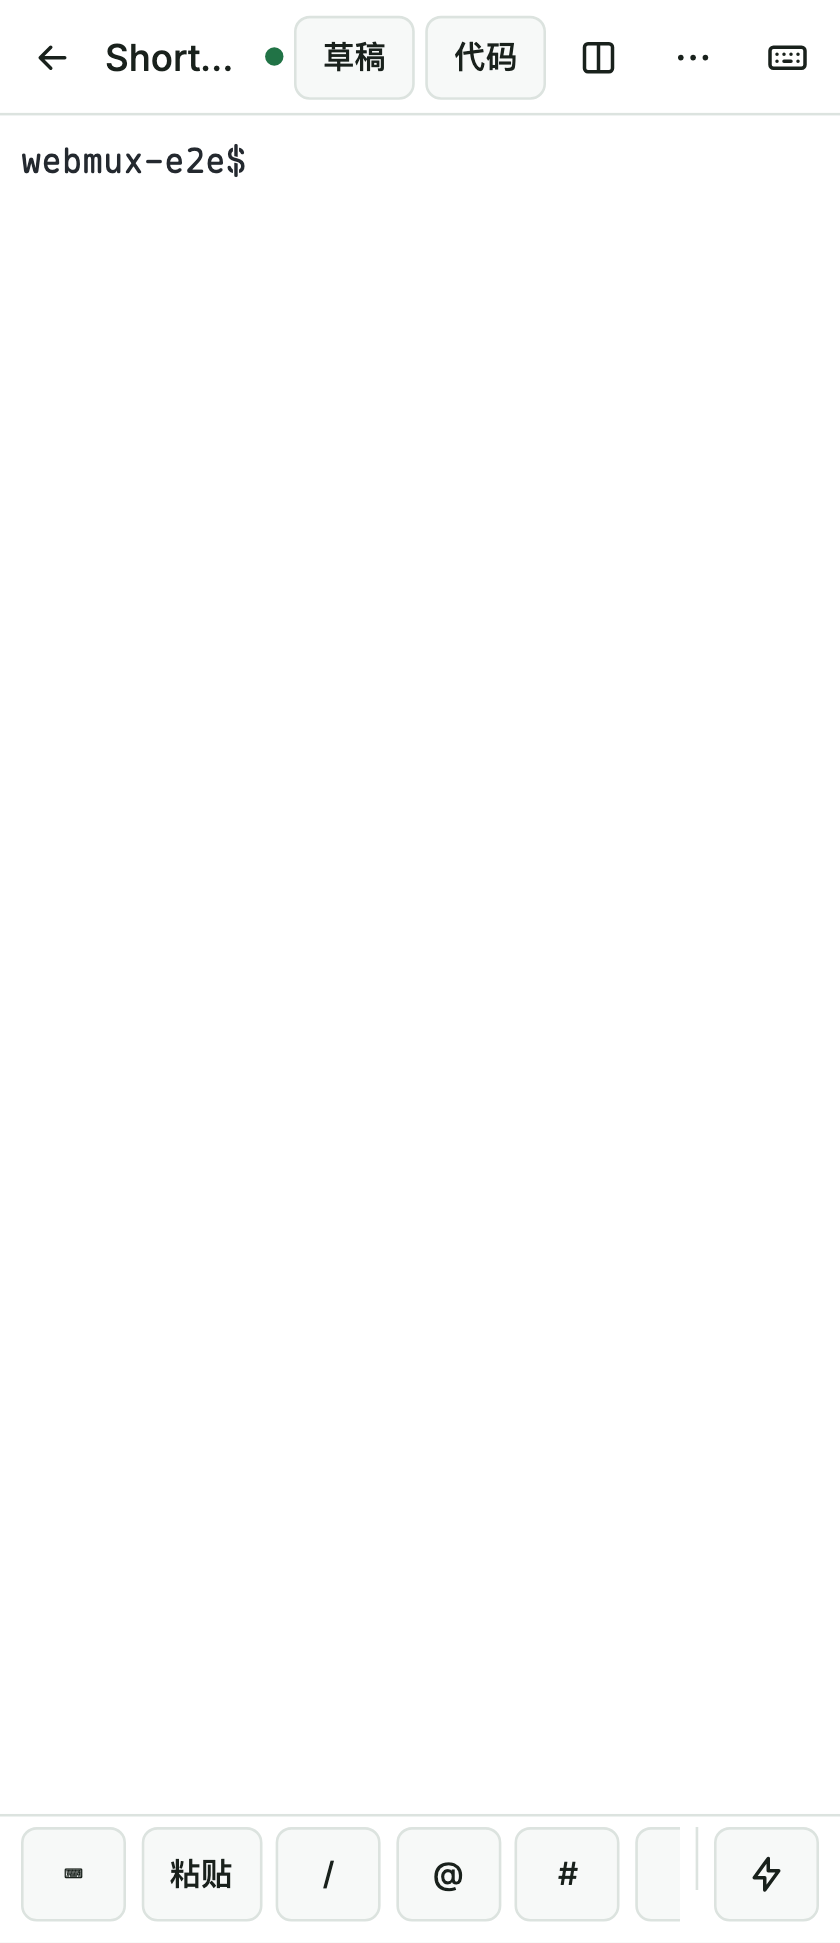
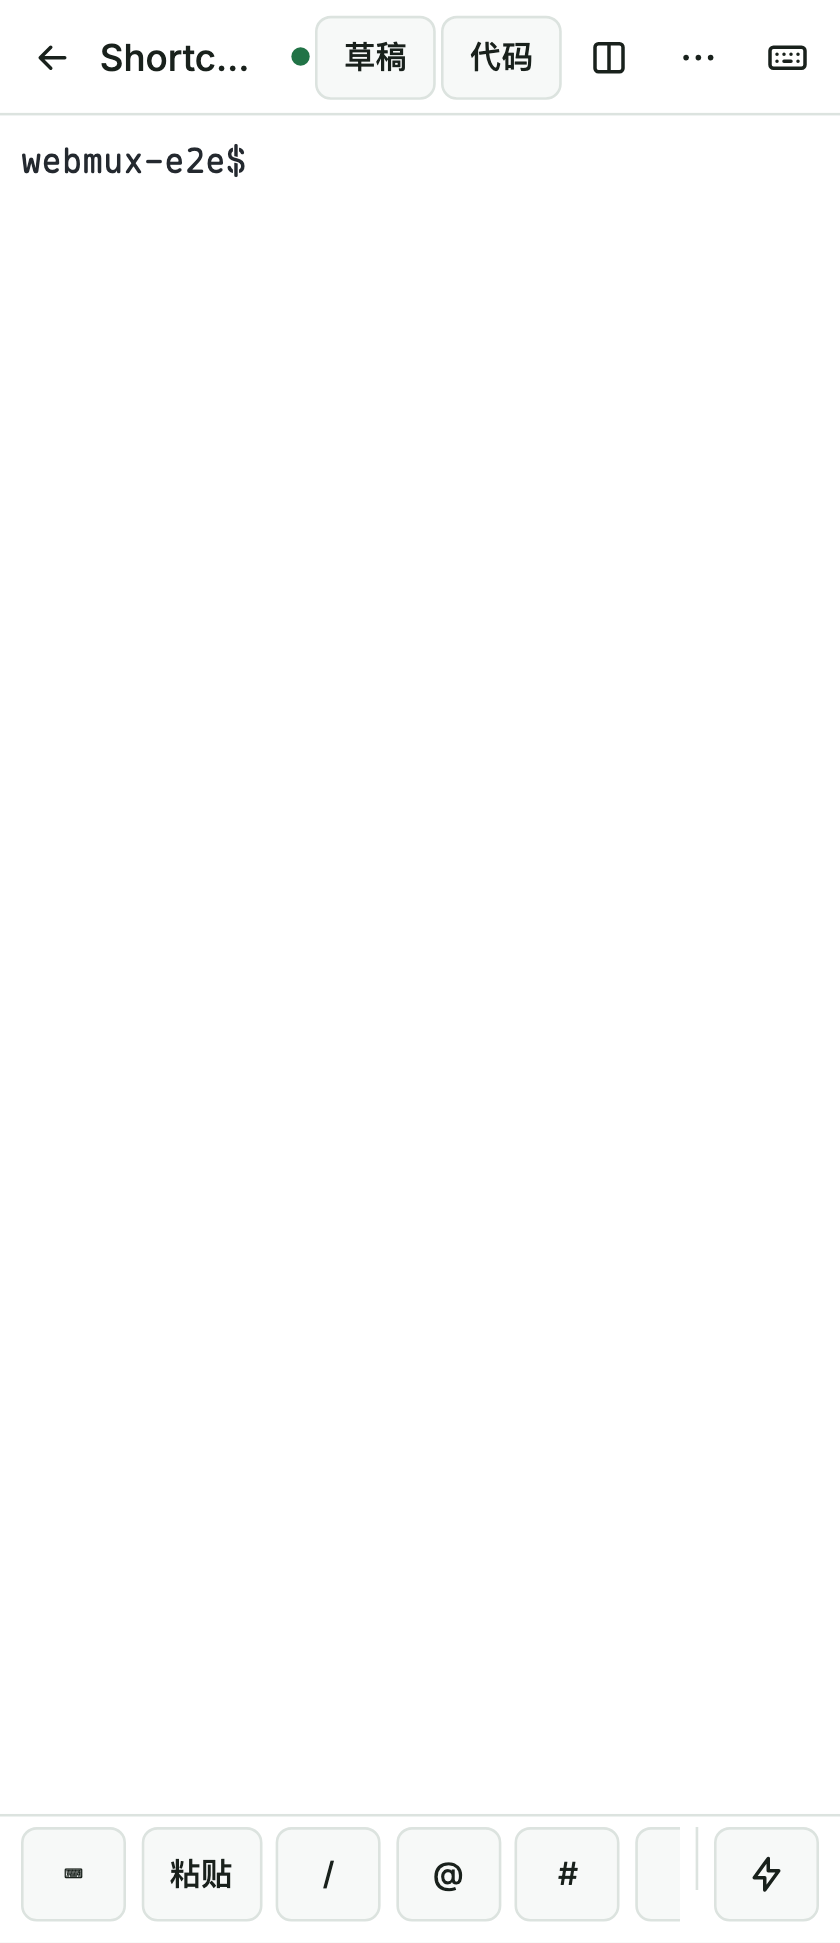
fix(web): keep narrow terminal toolbars within the viewport
Reserve room for shortcut help when the compact code view also shows
quick commands. A 2px gap below 640px avoids the one-pixel horizontal
overflow seen by macOS Chromium without shrinking any control.

Refresh the affected mobile screenshots.

Changed region(s): [[0.3095, 0.0, 0.65, 0.0618], [0.1238, 0.0, 0.2476, 0.0618], [0.681, 0.0, 0.7429, 0.0618]]

diff --git a/web/src/styles.css b/web/src/styles.css
@@ -238,6 +238,11 @@
 .terminal-header {
   gap: 4px;
 }
+@media (max-width: 639px) {
+  .terminal-header {
+    gap: 2px;
+  }
+}
 @media (max-height: 450px) {
   .terminal-composer {
     padding: 4px 8px;
